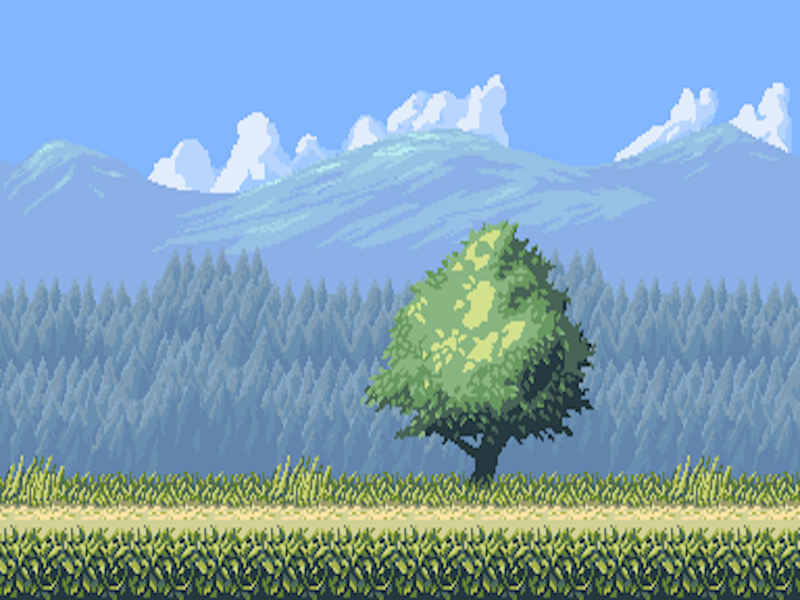
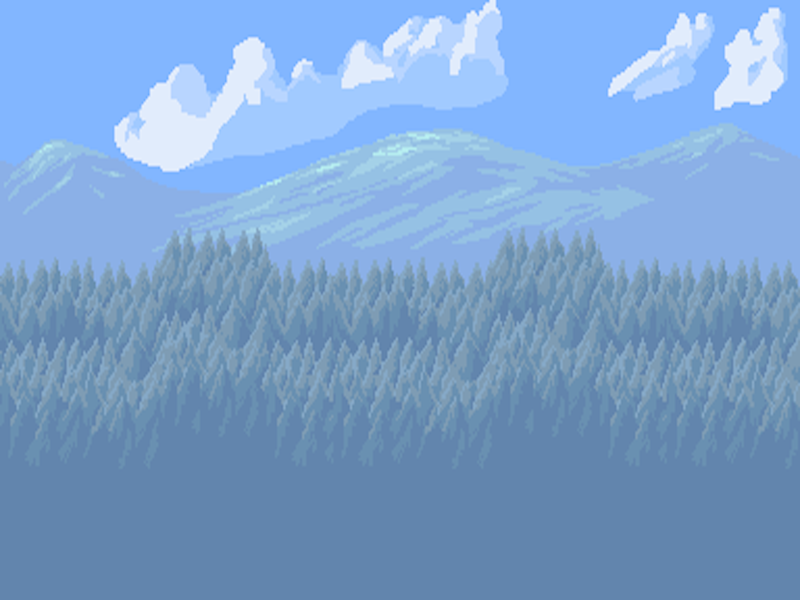
:white_check_mark: [Phaser] Background
add

diff --git a/src/phaser/scenes/MainGame.ts b/src/phaser/scenes/MainGame.ts
@@ -25,7 +25,7 @@ export default class MainGame extends Phaser.Scene {
 
     public init(): void {
         this.registry.set('score', 0)
-        this.registry.set('life', 1000)
+        this.registry.set('life', 2000)
       }
   
     public create(): void {
@@ -71,11 +71,11 @@ export default class MainGame extends Phaser.Scene {
         // }
 
           // add the ground layer which is only 48 pixels tall
-        // groundDark = this.add.tileSprite(0, 0, SETTING.WIDTH, 300, "groundDark")
-        // groundDark.setOrigin(0, 0)
-        // groundDark.setScrollFactor(0)
-        // // sinc this tile is shorter I positioned it at the bottom of he screen
-        // groundDark.y = 550
+        groundDark = this.add.tileSprite(0, 0, SETTING.WIDTH, 160, 'way')
+        groundDark.setOrigin(0, 0)
+        groundDark.setScrollFactor(0)
+        // sinc this tile is shorter I positioned it at the bottom of he screen
+        groundDark.y = 475
         // platforms.add(groundDark)
 
         this.worldTimer = this.time.addEvent({ // 게임에서 시간 이벤트 등록, 1초당 콜백 호출 (콜백내용은 초당 체력 감소)
@@ -103,20 +103,20 @@ export default class MainGame extends Phaser.Scene {
         player.setCollideWorldBounds(true)
         // this.cameras.main.startFollow(player)
         
-        this.anims.create({
+        this.anims.create({  // 플레이어 왼쪽 동작시 0번 ~ 3번 프레임 8fps로 재생
             key: 'left',
             frames: this.anims.generateFrameNumbers('dude', { start: 0, end: 3 }),
             frameRate: 8,
             repeat: -1
         })
     
-        this.anims.create({
+        this.anims.create({ // 플레이어 기본 프레임 4번
             key: 'turn',
-            frames: [ { key: 'dude', frame: 4 } ],
+            frames: [ { key: 'dude', frame: 4 } ], 
             frameRate: 10
         })
     
-        this.anims.create({
+        this.anims.create({ // 플레이어 오른쪽 동작시 5번 ~ 8번 프레임 8fps로 재생
             key: 'right',
             frames: this.anims.generateFrameNumbers('dude', { start: 5, end: 8 }),
             frameRate: 8,
@@ -125,38 +125,37 @@ export default class MainGame extends Phaser.Scene {
         
         cursors = this.input.keyboard.createCursorKeys()
 
-        stars = this.physics.add.group({
+        stars = this.physics.add.group({  // 별 20개 생성 (현재는 좌표설정이 없어서 제대로 동작하지않음)
             key: 'star',
             repeat: 20,
-            
         })
     
-        // stars.children.iterate(function (child: any):void {
+        // stars.children.iterate(function (child: any):void {  // 별 뿌리는 함수
             
         // })
 
-        this.physics.add.collider(player, platforms) // 첫번째인자와 두번째 인자 충돌 관련
+        this.physics.add.collider(player, platforms) // 첫번째인자와 두번째 인자간의 충돌 관련
         this.physics.add.collider(stars, platforms)
         this.physics.add.collider(target, platforms)
     
         this.physics.add.overlap(player, stars, this.collectStar, undefined, this) // player와 stars가 만나면 3번째 함수 실행
-        this.physics.add.collider(player, target, this.getSubcha, undefined, this)
+        this.physics.add.collider(player, target, this.getSubcha, undefined, this) // player와 target이 만나면 3번째 함수 실행
     }
     
     public update(time: number, delta: number): void {
          // this.background.update()
-        if (cursors.left.isDown) {
+        if (cursors.left.isDown) {   // 키보드 방향키 왼쪽 입력시 플레이어 -12 왼쪽이동
             player.setVelocityX(-12)
             skyTile.tilePositionX -= 5
             player.anims.play('left', true)
         }
 
-        else if (cursors.right.isDown) {
+        else if (cursors.right.isDown) { // 키보드 방향키 왼쪽 입력시 플레이어 +12 오른쪽이동
             player.setVelocityX(12)
             skyTile.tilePositionX += 5
             player.anims.play('right', true)
             
-            subchas.children.iterate(function (child: any, idx: number) {
+            subchas.children.iterate(function (child: any, idx: number) {  //서브캐릭들 붙이는 함수
                 if(player.x - (50 + idx * 50) > child.x) {
                     child.x += 1
                 }
@@ -171,7 +170,7 @@ export default class MainGame extends Phaser.Scene {
             player.anims.play('turn')
         }
     
-        if (cursors.space.isDown) {
+        if (cursors.space.isDown) { // 스페이스바 입력시 점프
             player.setVelocityY(-330)
             subchas.children.iterate(function (child: any, idx: number) {
                 if(player.y > child.y) {
@@ -190,14 +189,14 @@ export default class MainGame extends Phaser.Scene {
             })
           }
     }
-    private worldTime(): void {
+    private worldTime(): void {  // 1초당 실행되는 함수 this.worldTimer 참조
         this.registry.values.score += 10
         this.scoreText.setText(`SCORE ${this.registry.values.score}`)
         this.registry.values.life -= 100
         this.lifeText.setText(`LIFE ${this.registry.values.life}`)
     }
 
-      collectStar (player: any, star: any):void {
+      collectStar (player: any, star: any):void { // 별 다모으면 다시 만드는 함수
         star.disableBody(true, true)
         if (stars.countActive(true) === 0) {
             stars.children.iterate(function (child: any) {
@@ -211,14 +210,15 @@ export default class MainGame extends Phaser.Scene {
       // 배경 밀림
       // 플레이어 땅위에
       // stage2, 3
+      // cloudfront 배포
       
-      
-
-      nextStage () : void {
+      nextStage () : void { // 다음 스테이지로 넘어가는 함수 (아직 사용중인 곳은 없음)
         this.scene.start('Stage2', { score: this.registry.values.score, life: this.registry.values.life  })
       }
-
-      getSubcha (player: any, target: any):void {
+      
+      //this.physics.add.collider(player, target, this.getSubcha, undefined, this) 에서 사용된 함수
+      //서브캐 습득시 자리정렬과 스코어 합산
+      getSubcha (player: any, target: any):void { 
         target.disableBody(true, true)
         
         let bird = subchas.create(player.x - (30 + subchas.children.entries.length * 80), player.y, 'bird').setScale(0.14)

diff --git a/src/phaser/scenes/Loader.ts b/src/phaser/scenes/Loader.ts
@@ -1,11 +1,9 @@
 import Phaser from 'phaser'
 import skys from '../../resource/images/sky.png'
 import starss from '../../resource/images/star.png'
-import bombs from '../../resource/images/bomb.png'
 import trees from '../../resource/images/tree.png'
 import platformss from '../../resource/images/platform.png'
 import dudes from '../../resource/images/dude.png'
-// import dudes2 from '../../resource/images/dude2.png'
 import sky_cloud from '../../resource/images/sky-clouds.jpg'
 import mountain_skyline from '../../resource/images/mountain-skyline.png'
 import bird from '../../resource/images/104.png'
@@ -14,6 +12,7 @@ import groundDark from '../../resource/images/groundDark.png'
 import skydark from '../../resource/images/country-platform.png'
 import gameOver from '../../resource/images/gameover.png'
 import inu from '../../resource/images/310.png'
+import way from '../../resource/images/way.png'
 const stage1_BGM = require("../../resource/sound/bgm/stage1_bgm.mp3")
 const scoreEffect = require('../../resource/sound/effect/fx_mixdown.ogg')
 const scoreEffectjson = require('../../resource/sound/effect/fx_mixdown.json')
@@ -46,6 +45,7 @@ export default class Loader extends Phaser.Scene {
     this.load.image('skydark', skydark)
     this.load.image('gameOver', gameOver)
     this.load.image('inu', inu)
+    this.load.image('way', way)
     this.load.bitmapFont('font', font2, font1)
     this.load.spritesheet('dude', dudes, { frameWidth: 32, frameHeight: 48 })
     // this.load.spritesheet('dude2', dudes2, { frameWidth: 156, frameHeight: 260 })
